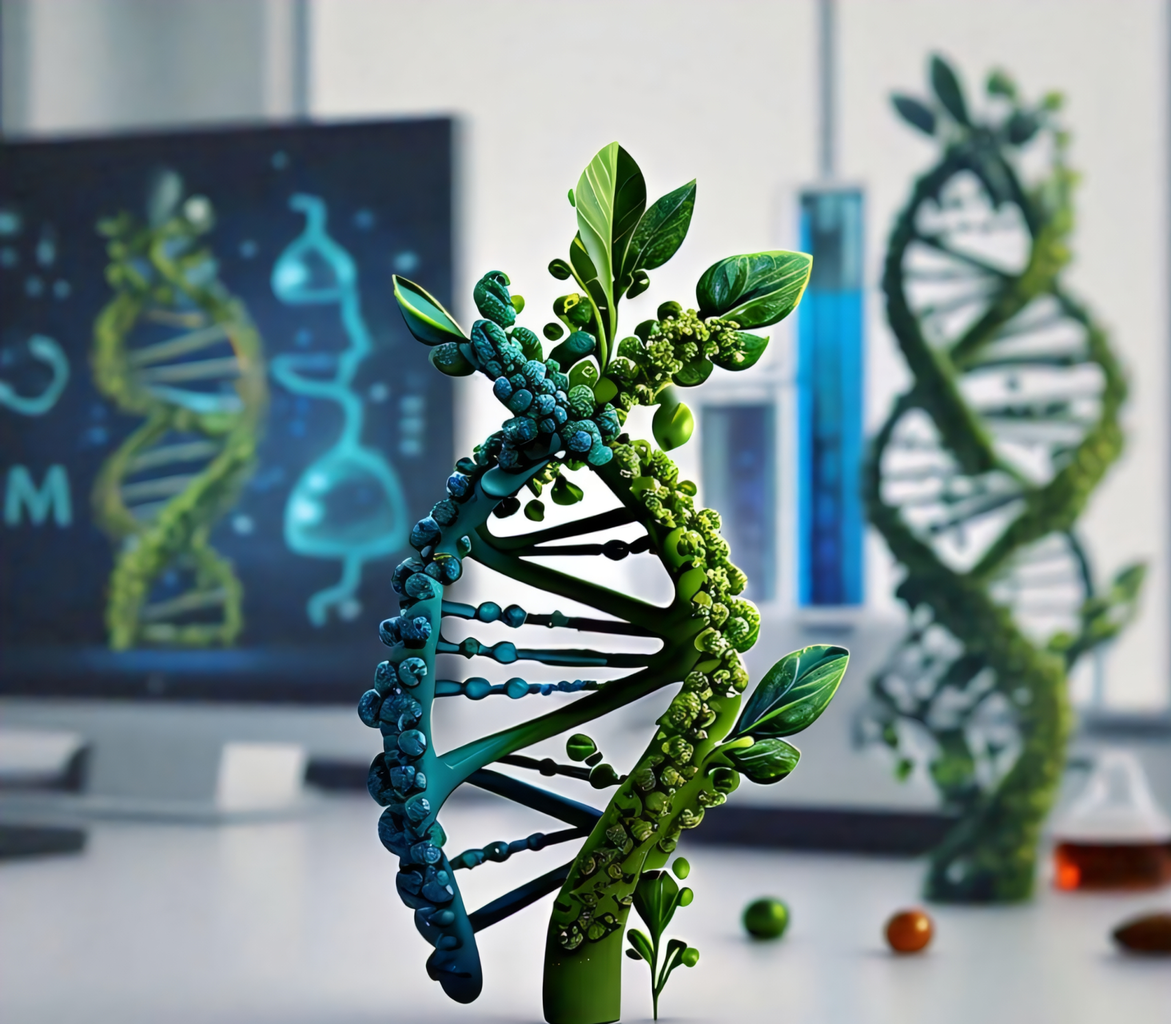
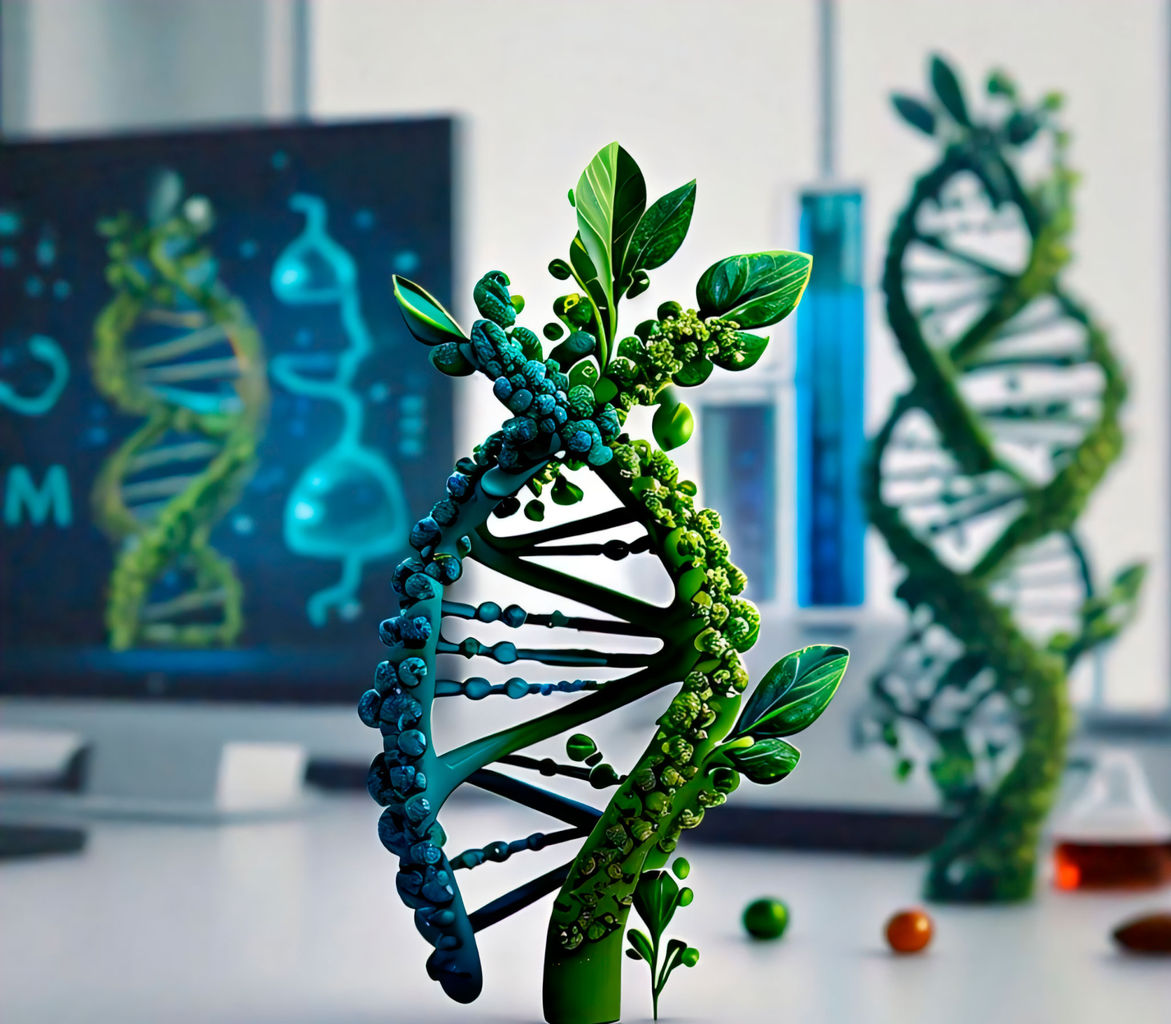
Optimizacion de tamaño de imagenes

diff --git a/src/pages/miembros.tsx b/src/pages/miembros.tsx
@@ -6,9 +6,9 @@ import {FC, memo} from 'react';
 import Page from '../components/Layout/Page';
 import Footer from '../components/Sections/Footer';
 import bill from '../images/bill-gates.jpg';
-import carol1 from '../images/Carol-Moraga-1.png';
+import carol1 from '../images/Carol-Moraga-1.jpg';
 import testimonialImage from '../images/header-background.webp';
-import david1 from '../images/David-Salas.png';
+import david1 from '../images/David-Salas.jpg';
 import nairo1 from '../images/nairo-torres.jpg';
 import alex1 from '../images/Perfil_Alex_Genova.jpg';
 import felipe1 from '../images/FELIPE GOMEZ.jpg';

diff --git a/src/pages/miembro3.tsx b/src/pages/miembro3.tsx
@@ -5,7 +5,7 @@ import {FC, memo} from 'react';
 import Page from '../components/Layout/Page';
 import Footer from '../components/Sections/Footer';
 import backgroundImage from '../images/header-background.webp'; // Imagen de fondo
-import DavidImage from '../images/David-Salas.png'; // Imagen de David
+import DavidImage from '../images/David-Salas.jpg'; // Imagen de David
 
 // Importación dinámica del Header
 const Header = dynamic(() => import('../components/Sections/Header'), {ssr: false});

diff --git a/src/pages/miembro1.tsx b/src/pages/miembro1.tsx
@@ -4,7 +4,7 @@ import {FC, memo} from 'react';
 
 import Page from '../components/Layout/Page';
 import Footer from '../components/Sections/Footer';
-import carol1 from '../images/Carol-Moraga-1.png'; // Imagen de Carol
+import carol1 from '../images/Carol-Moraga-1.jpg'; // Imagen de Carol
 import backgroundImage from '../images/header-background.webp'; // Imagen de fondo
 
 // Importación dinámica del Header
